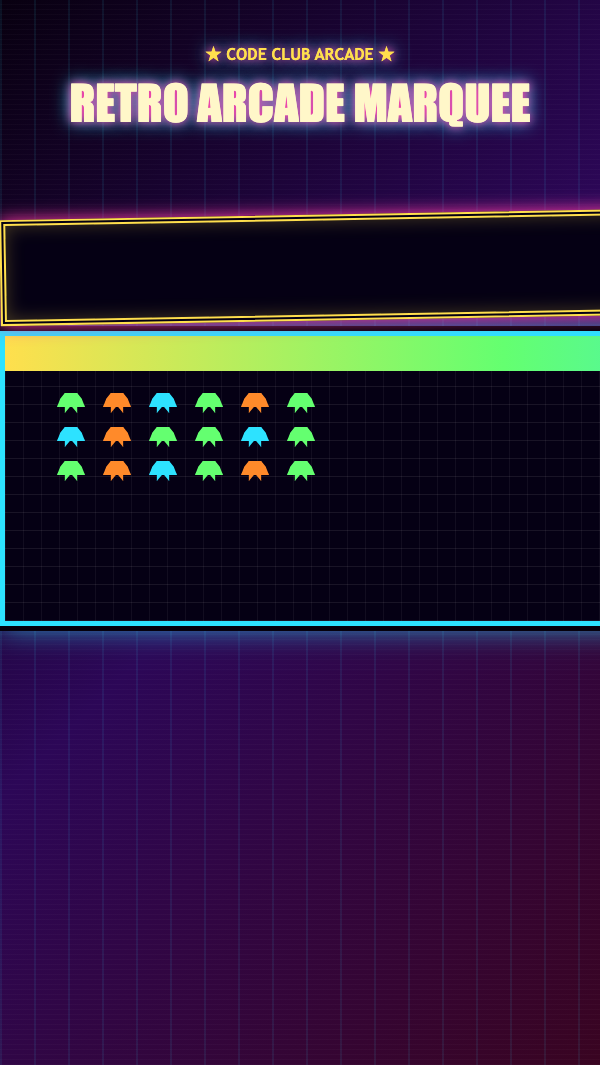
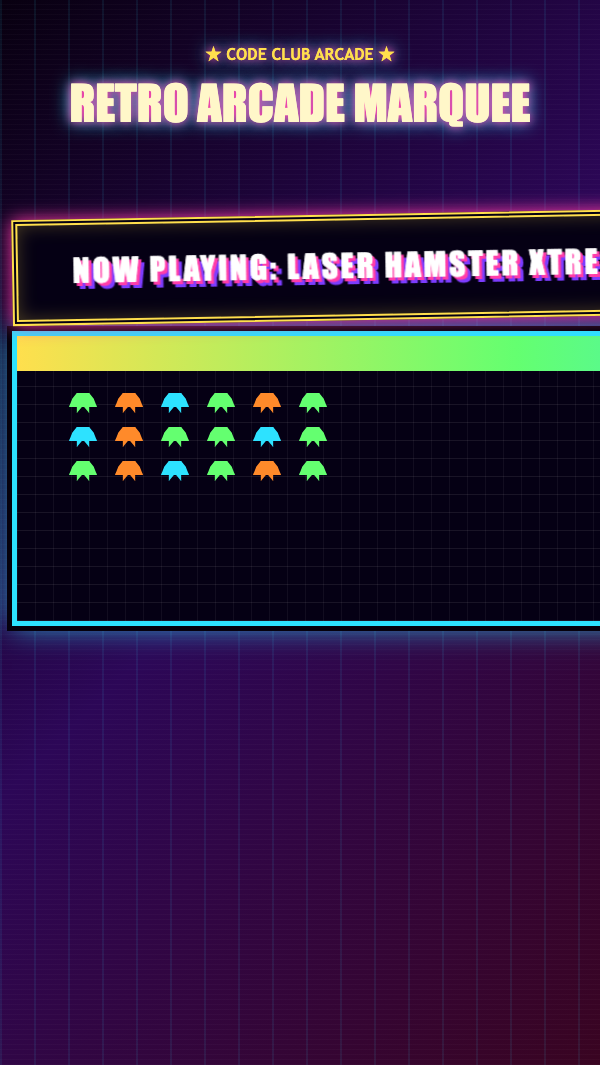
Resolve CE comments from Jenni Hutchings
- Promo text in code is now normal case, matching the step 1-5 images;
  step 6's text-transform: uppercase now visibly turns it into capitals
- Alt text: promo text case updated; HTML quote entities replaced with
  literal curly quotes so they cannot break on the platform
- Step 6: re-rendered output (and hero image) so the marquee text shows;
  alt text describes the capitals

Changed region(s): [[0.0, 0.1859, 1.0, 0.5887], [0.09, 0.3718, 0.54, 0.4648]]

diff --git a/en/code/retro-arcade-marquee-complete/index.html b/en/code/retro-arcade-marquee-complete/index.html
@@ -20,7 +20,7 @@
         <!-- The marquee is your scrolling advert for an invented arcade game. -->
         <div class="marquee" aria-label="Scrolling arcade advert">
           <p class="marquee-text">
-            NOW PLAYING: LASER HAMSTER XTREME &#9889; WIN THE GALAXY &#9889; FREE LASERS WITH EVERY MOON BURGER
+            Now playing: Laser Hamster Xtreme &#9889; Win the galaxy &#9889; Free lasers with every moon burger
           </p>
         </div>
       </section>

diff --git a/en/step_1.md b/en/step_1.md
@@ -19,7 +19,7 @@ line_highlights: 21-25
         <!-- Add your scrolling promo inside this section. -->
         <div class="marquee" aria-label="Scrolling arcade advert">
           <p class="marquee-text">
-          NOW PLAYING: LASER HAMSTER XTREME
+          Now playing: Laser Hamster Xtreme
           </p>
         </div >
       </section>
@@ -32,5 +32,5 @@ line_highlights: 21-25
 Your promo text should appear above the retro space shooter demo.
 
 <div class="c-project-output">
-  <img src="images/step_1_output.png" alt="A page with the titles &ldquo;CODE CLUB ARCADE&rdquo; and &ldquo;RETRO ARCADE MARQUEE&rdquo; showing a space shooter demo, with the text &ldquo;PROMO:&rdquo;, then the promo text &ldquo;NOW PLAYING: LASER HAMSTER XTREME&rdquo; above the demo. The page background is a dark purple gradient, the titles are yellow and pale yellow, and the promo text is pale yellow.">
+  <img src="images/step_1_output.png" alt="A page with the titles “CODE CLUB ARCADE” and “RETRO ARCADE MARQUEE” showing a space shooter demo, with the text “PROMO:”, then the promo text “Now playing: Laser Hamster Xtreme” above the demo. The page background is a dark purple gradient, the titles are yellow and pale yellow, and the promo text is pale yellow.">
 </div>

diff --git a/en/step_6.md b/en/step_6.md
@@ -53,7 +53,7 @@ line_highlights: 23
 ---
         <div class="marquee" aria-label="Scrolling arcade advert">
           <p class="marquee-text">
-            NOW PLAYING: LASER HAMSTER XTREME &#9889; WIN THE GALAXY &#9889; FREE LASERS WITH EVERY MOON BURGER
+            Now playing: Laser Hamster Xtreme &#9889; Win the galaxy &#9889; Free lasers with every moon burger
           </p>
         </div >
 --- /code ---
@@ -65,5 +65,5 @@ line_highlights: 23
 Your marquee should now look eye-catching and dramatic, and the words should advertise your own arcade game idea.
 
 <div class="c-project-output">
-  <img src="images/step_6_output.png" alt="The promo text now has pink and purple drop shadows.">
+  <img src="images/step_6_output.png" alt="The promo text “NOW PLAYING: LASER HAMSTER XTREME” is now in capital letters, with pink and purple drop shadows.">
 </div>

diff --git a/en/step_2.md b/en/step_2.md
@@ -56,5 +56,5 @@ line_highlights: 2-23
 Your promo text should slide across the page above the arcade game demo.
 
 <div class="c-project-output">
-  <img src="images/step_2_output.png" alt="The space shooter demo page with the promo text &ldquo;NOW PLAYING: LASER HAMSTER XTREME&rdquo; scrolling across the page from right to left above the demo.">
+  <img src="images/step_2_output.png" alt="The space shooter demo page with the promo text “Now playing: Laser Hamster Xtreme” scrolling across the page from right to left above the demo.">
 </div>
